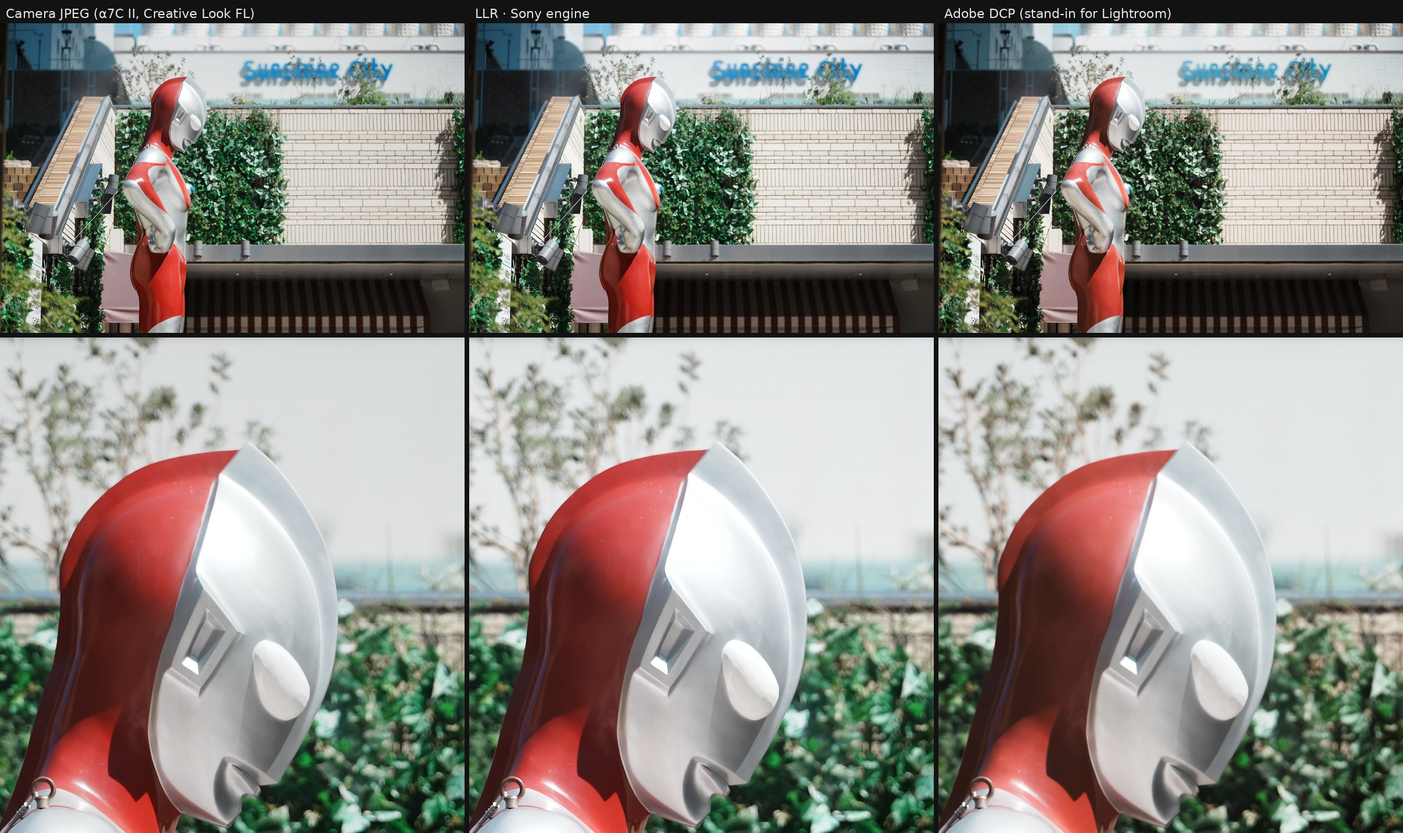
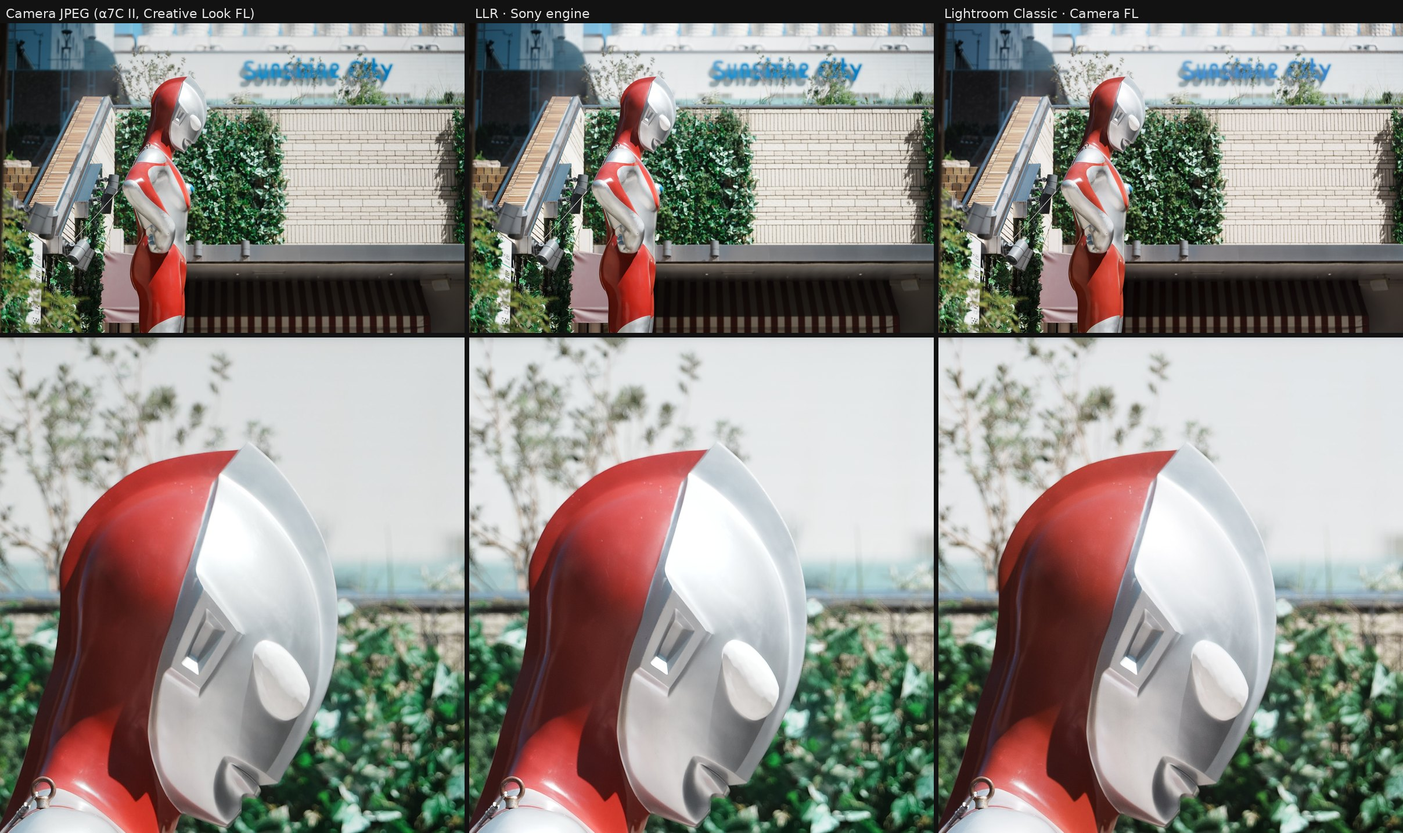
docs(readme): real Lightroom Classic exports in the comparison, with numbers
Camera FL profile, process 15.4, defaults, on both frames. CIEDE2000 whole
frame plus per-region hue/chroma/lightness shifts against the camera JPEG
(docs/readme/colour-fidelity.md, scripts under docs/readme/tools).

Claude-Session: https://claude.ai/code/session_013fpY2ayPtPLs9BhmjxBqhu

diff --git a/docs/readme/tools/quant.py b/docs/readme/tools/quant.py
@@ -1,0 +1,96 @@
+"""Colour distance of renders from the camera JPEG, whole frame and per region.
+
+Usage: quant.py <camera.jpg> <regions.json> <label=path> [label=path ...]
+regions.json: {"name": [x0, y0, x1, y1, "chroma"|"any"], ...} in frame fractions;
+"chroma" keeps only pixels the camera rendered with C* > 18 (the coloured object,
+not the gaps between leaves).
+"""
+import json
+import sys
+
+import numpy as np
+from PIL import Image
+
+W, H = 1752, 1168  # 1/4 size: colour, not demosaic/sharpening, is what is measured
+
+
+def srgb_to_lab(a):
+    a = a / 255.0
+    lin = np.where(a <= 0.04045, a / 12.92, ((a + 0.055) / 1.055) ** 2.4)
+    M = np.array([[0.4124564, 0.3575761, 0.1804375], [0.2126729, 0.7151522, 0.0721750], [0.0193339, 0.1191920, 0.9503041]])
+    xyz = lin @ M.T / np.array([0.95047, 1.0, 1.08883])
+    f = np.where(xyz > 0.008856, np.cbrt(xyz), 7.787 * xyz + 16 / 116)
+    return np.stack([116 * f[..., 1] - 16, 500 * (f[..., 0] - f[..., 1]), 200 * (f[..., 1] - f[..., 2])], -1)
+
+
+def de2000(lab1, lab2):
+    L1, a1, b1 = lab1[..., 0], lab1[..., 1], lab1[..., 2]
+    L2, a2, b2 = lab2[..., 0], lab2[..., 1], lab2[..., 2]
+    C1, C2 = np.hypot(a1, b1), np.hypot(a2, b2)
+    Cm = (C1 + C2) / 2
+    G = 0.5 * (1 - np.sqrt(Cm**7 / (Cm**7 + 25**7)))
+    a1p, a2p = (1 + G) * a1, (1 + G) * a2
+    C1p, C2p = np.hypot(a1p, b1), np.hypot(a2p, b2)
+    h1p = np.degrees(np.arctan2(b1, a1p)) % 360
+    h2p = np.degrees(np.arctan2(b2, a2p)) % 360
+    dLp, dCp = L2 - L1, C2p - C1p
+    dh = h2p - h1p
+    dh = np.where(dh > 180, dh - 360, np.where(dh < -180, dh + 360, dh))
+    dh = np.where(C1p * C2p == 0, 0, dh)
+    dHp = 2 * np.sqrt(C1p * C2p) * np.sin(np.radians(dh / 2))
+    Lm, Cmp = (L1 + L2) / 2, (C1p + C2p) / 2
+    hs = h1p + h2p
+    hm = np.where(np.abs(h1p - h2p) > 180, np.where(hs < 360, hs + 360, hs - 360) / 2, hs / 2)
+    hm = np.where(C1p * C2p == 0, hs, hm)
+    T = 1 - 0.17 * np.cos(np.radians(hm - 30)) + 0.24 * np.cos(np.radians(2 * hm)) + 0.32 * np.cos(np.radians(3 * hm + 6)) - 0.20 * np.cos(np.radians(4 * hm - 63))
+    dth = 30 * np.exp(-(((hm - 275) / 25) ** 2))
+    Rc = 2 * np.sqrt(Cmp**7 / (Cmp**7 + 25**7))
+    Sl = 1 + 0.015 * (Lm - 50) ** 2 / np.sqrt(20 + (Lm - 50) ** 2)
+    Sc, Sh = 1 + 0.045 * Cmp, 1 + 0.015 * Cmp * T
+    Rt = -np.sin(np.radians(2 * dth)) * Rc
+    return np.sqrt((dLp / Sl) ** 2 + (dCp / Sc) ** 2 + (dHp / Sh) ** 2 + Rt * (dCp / Sc) * (dHp / Sh))
+
+
+def load(path):
+    return srgb_to_lab(np.asarray(Image.open(path).convert("RGB").resize((W, H), Image.LANCZOS), dtype=np.float64))
+
+
+def hue(lab):
+    return np.degrees(np.arctan2(lab[..., 2], lab[..., 1])) % 360
+
+
+def circ_mean_diff(h1, h2):
+    d = (h2 - h1 + 180) % 360 - 180
+    return d.mean()
+
+
+cam = load(sys.argv[1])
+regions = json.load(open(sys.argv[2]))
+renders = [(kv.split("=", 1)[0], load(kv.split("=", 1)[1])) for kv in sys.argv[3:]]
+
+masks = {}
+for name, (x0, y0, x1, y1, mode) in regions.items():
+    m = np.zeros((H, W), bool)
+    m[round(y0 * H):round(y1 * H), round(x0 * W):round(x1 * W)] = True
+    if mode == "chroma":
+        m &= np.hypot(cam[..., 1], cam[..., 2]) > 18
+    masks[name] = m
+
+head = ["Render", "ΔE00 mean", "ΔE00 median", "ΔE00 p95"] + [
+    f"{n}: ΔE00 / Δh° / ΔC* / ΔL*" if regions[n][4] == "chroma" else f"{n}: ΔE00 / ΔL*" for n in regions]
+rows = []
+for label, lab in renders:
+    d = de2000(cam, lab)
+    row = [label, f"{d.mean():.2f}", f"{np.median(d):.2f}", f"{np.percentile(d, 95):.2f}"]
+    for n, m in masks.items():
+        c, r = cam[m], lab[m]
+        dL = f"{(r[:, 0] - c[:, 0]).mean():+.1f}"
+        if regions[n][4] == "chroma":  # hue is noise on a neutral region
+            row.append(f"{d[m].mean():.2f} / {circ_mean_diff(hue(c), hue(r)):+.1f}° / {(np.hypot(r[:, 1], r[:, 2]) - np.hypot(c[:, 1], c[:, 2])).mean():+.1f} / {dL}")
+        else:
+            row.append(f"{d[m].mean():.2f} / {dL}")
+    rows.append(row)
+print("| " + " | ".join(head) + " |")
+print("|" + "---|" * len(head))
+for r in rows:
+    print("| " + " | ".join(r) + " |")

diff --git a/docs/readme/tools/togglegif.py b/docs/readme/tools/togglegif.py
@@ -1,0 +1,34 @@
+"""Two-frame toggle GIF of one crop: A vs B, shared palette so the swap shows
+only the render difference, not a palette shift.
+
+Usage: togglegif.py <a.jpg> <labelA> <b.jpg> <labelB> <out.gif> [x0 y0 x1 y1 fractions] [width]
+"""
+import sys
+from PIL import Image, ImageDraw, ImageFont
+
+a, la, b, lb, out = sys.argv[1:6]
+crop = tuple(map(float, sys.argv[6:10])) if len(sys.argv) > 9 else (0.0, 0.0, 1.0, 1.0)
+W = int(sys.argv[10]) if len(sys.argv) > 10 else 900
+font = ImageFont.truetype("/usr/share/fonts/truetype/dejavu/DejaVuSans-Bold.ttf", 26)
+
+
+def frame(path, label):
+    im = Image.open(path).convert("RGB")
+    fw, fh = im.size
+    im = im.crop((round(crop[0] * fw), round(crop[1] * fh), round(crop[2] * fw), round(crop[3] * fh)))
+    im = im.resize((W, round(W * im.size[1] / im.size[0])), Image.LANCZOS)
+    d = ImageDraw.Draw(im)
+    tw = d.textlength(label, font=font)
+    d.rectangle((0, 0, tw + 28, 44), fill=(0, 0, 0))
+    d.text((14, 8), label, fill=(255, 255, 255), font=font)
+    return im
+
+
+fa, fb = frame(a, la), frame(b, lb)
+both = Image.new("RGB", (fa.width, fa.height * 2))
+both.paste(fa, (0, 0)); both.paste(fb, (0, fa.height))
+pal = both.quantize(colors=256, method=Image.Quantize.MEDIANCUT)
+qa = fa.quantize(palette=pal, dither=Image.Dither.FLOYDSTEINBERG)
+qb = fb.quantize(palette=pal, dither=Image.Dither.FLOYDSTEINBERG)
+qa.save(out, save_all=True, append_images=[qb], duration=1100, loop=0, optimize=False)
+print(out, fa.size)

diff --git a/docs/readme/tools/compare.py b/docs/readme/tools/compare.py
@@ -1,0 +1,27 @@
+"""Three-way comparison figure: camera JPEG / LLR Sony engine / Lightroom.
+
+Usage: compare.py <camera.jpg> <llr.jpg> <lightroom.jpg> <out.jpg>
+"""
+import sys
+from PIL import Image, ImageDraw, ImageFont
+
+cam, llr, lr, out = sys.argv[1:5]
+labels = ["Camera JPEG (α7C II, Creative Look FL)", "LLR · Sony engine", sys.argv[5] if len(sys.argv) > 5 else "Lightroom Classic · Adobe Color"]
+W = 800                       # each panel width
+CROP = (0.30, 0.10, 0.50, 0.42)  # head + red suit, as fractions of the frame
+font = ImageFont.truetype("/usr/share/fonts/truetype/dejavu/DejaVuSans.ttf", 22)
+imgs = [Image.open(p).convert("RGB") for p in (cam, llr, lr)]
+fw, fh = imgs[0].size
+H = round(W * fh / fw)
+cw, ch = W, round(W * (CROP[3] - CROP[1]) * fh / ((CROP[2] - CROP[0]) * fw))
+label_h, gap = 40, 8
+sheet = Image.new("RGB", (3 * W + 2 * gap, label_h + H + gap + ch), (18, 18, 18))
+draw = ImageDraw.Draw(sheet)
+for i, (im, lab) in enumerate(zip(imgs, labels)):
+    x = i * (W + gap)
+    draw.text((x + 10, 10), lab, fill=(230, 230, 230), font=font)
+    sheet.paste(im.resize((W, H), Image.LANCZOS), (x, label_h))
+    box = (round(CROP[0] * fw), round(CROP[1] * fh), round(CROP[2] * fw), round(CROP[3] * fh))
+    sheet.paste(im.crop(box).resize((cw, ch), Image.LANCZOS), (x, label_h + H + gap))
+sheet.save(out, quality=86, optimize=True)
+print(out, sheet.size)

diff --git a/docs/readme/colour-fidelity.md b/docs/readme/colour-fidelity.md
@@ -1,0 +1,42 @@
+# Colour fidelity against the camera JPEG
+
+Two α7C II frames, Creative Look FL, DRO Auto. Each render is compared with the
+JPEG the camera wrote into the same ARW, at 1/4 size so demosaic and sharpening
+differences do not count, in CIELAB (sRGB, D65). ΔE00 is CIEDE2000. Region
+columns are means over that region; for coloured regions only pixels the camera
+rendered with C\* > 18 count (the object, not the gaps), and Δh° / ΔC\* / ΔL\*
+are the render's mean hue, chroma and lightness shift from the camera.
+
+The camera JPEG is the preview embedded in the ARW (`pnpm worker --
+extract-preview`); LLR renders are the app's own exports; Lightroom exports are
+full-size JPEGs from Lightroom Classic 15.4 with the Camera FL profile and every
+other setting at default. Regenerate with `docs/readme/tools/quant.py <camera.jpg> <regions.json> label=render.jpg …`;
+the region boxes are in `docs/readme/tools/regions{1,2}.json`.
+
+## DSC03633 — statue, hedge, brick wall
+
+| Render | ΔE00 mean | ΔE00 median | ΔE00 p95 | red suit: ΔE00 / Δh° / ΔC* / ΔL* | hedge: ΔE00 / Δh° / ΔC* / ΔL* | wall: ΔE00 / ΔL* |
+|---|---|---|---|---|---|---|
+| LLR · Sony | 1.80 | 1.74 | 3.18 | 1.21 / -0.5° / -1.1 / +0.1 | 1.27 / +0.8° / -0.6 / +0.4 | 2.42 / +3.2 |
+| Lightroom Classic · Camera FL | 2.92 | 2.76 | 5.29 | 2.47 / +0.3° / -5.9 / -0.9 | 3.62 / -4.6° / -4.5 / -2.3 | 3.22 / +4.1 |
+| LLR · Adobe DCP | 3.24 | 2.74 | 6.48 | 4.20 / +0.4° / -8.5 / +0.3 | 5.22 / -6.6° / -6.6 / -3.3 | 2.71 / +2.6 |
+
+## DSC03630 — can under leaves
+
+| Render | ΔE00 mean | ΔE00 median | ΔE00 p95 | leaves: ΔE00 / Δh° / ΔC* / ΔL* | can: ΔE00 / ΔL* | pavement: ΔE00 / ΔL* |
+|---|---|---|---|---|---|---|
+| LLR · Sony | 2.37 | 2.41 | 3.87 | 2.00 / +0.5° / +0.0 / +2.1 | 2.60 / +3.2 | 2.57 / +3.4 |
+| Lightroom Classic · Camera FL | 5.64 | 4.80 | 12.79 | 3.80 / -3.0° / -3.3 / +3.6 | 2.46 / +2.2 | 4.63 / +6.1 |
+| LLR · Adobe DCP | 3.02 | 2.55 | 5.83 | 3.84 / -4.7° / -7.0 / +0.4 | 3.07 / +2.3 | 2.10 / +2.6 |
+
+What the numbers say: the Sony path lands within a degree of hue and a unit of
+chroma on every coloured region, and its residual is a uniform ~+3 L\* on
+neutrals. A Camera Matching DCP keeps hue on the red but loses 6–8 units of
+chroma, and turns greens 3–7° toward blue while dropping 3–7 units of chroma —
+the "Lightroom look" of foliage.
+
+Lightroom Classic (process version 15.4, profile Camera FL, everything else at
+default) drifts the same way LLR's own DCP render does. On the first frame it
+goes a little less far (the two agree to a mean ΔE00 of 3.0); on the second its
+larger error is tone rather than colour — the whole frame comes out ~+6 L\*
+brighter than the camera, which the DRO-aware Sony path does not do.

diff --git a/README.md b/README.md
@@ -8,24 +8,32 @@ Two things it does that Lightroom does not:
 
 ## The camera's colour, not Adobe's
 
-![Camera JPEG, LLR's Sony engine, and an Adobe DCP render of the same ARW](docs/readme/sony-engine.jpg)
+![Camera JPEG, LLR's Sony engine, and Lightroom Classic on the same ARW](docs/readme/sony-engine.jpg)
 
 <table><tr>
 <td><img src="docs/readme/can-llr.gif" alt="Camera JPEG toggling against LLR's Sony render" width="440"></td>
-<td><img src="docs/readme/can-adobe.gif" alt="Camera JPEG toggling against the Adobe DCP render" width="440"></td>
+<td><img src="docs/readme/can-lightroom.gif" alt="Camera JPEG toggling against Lightroom Classic" width="440"></td>
 </tr></table>
 
-*Left: camera JPEG ↔ LLR. Right: camera JPEG ↔ Adobe DCP. Foliage is where a
-fitted profile drifts most — watch the greens go cool and dark on the right.*
+*Left: camera JPEG ↔ LLR. Right: camera JPEG ↔ Lightroom Classic (Camera FL
+profile, defaults). Foliage is where a fitted profile drifts most — watch the
+greens lose their colour and the whole frame lift on the right.*
+
+Measured against the camera JPEG (CIEDE2000; hue and chroma shifts are means
+over the coloured pixels of that region; [method and full tables](docs/readme/colour-fidelity.md)):
+
+| Render | ΔE00 mean, frame 1 / 2 | Red suit ΔC\* | Hedge Δh° / ΔC\* | Leaves Δh° / ΔC\* |
+|---|---|---|---|---|
+| LLR · Sony engine | 1.80 / 2.37 | −1.1 | +0.8° / −0.6 | +0.5° / 0.0 |
+| Lightroom Classic · Camera FL | 2.92 / 5.64 | −5.9 | −4.6° / −4.5 | −3.0° / −3.3 |
+| LLR · Adobe DCP (Camera FL) | 3.24 / 3.02 | −8.5 | −6.6° / −6.6 | −4.7° / −7.0 |
 
 Every ARW carries the calibration Imaging Edge renders from: the body's
 hue-segmented colour matrix, the tone curve and chroma terms of each Creative
 Look, and the DRO gain grid. LLR reads them back and runs that pipeline, so the
 first frame you see is the camera JPEG — at RAW depth, with every slider still
-live. On the first frame the render sits within a mean ΔE\*ab of 2.4 of the
-camera's own JPEG; Lightroom's Camera Matching profiles approximate the same
-look from a fitted DCP, and the Film look's reds and the wall's tone are where
-that drifts.
+live. Lightroom's Camera Matching profiles approximate the same look from a
+fitted DCP, and saturated reds and greens are where that drifts.
 
 What that buys you, after the shot:
 
